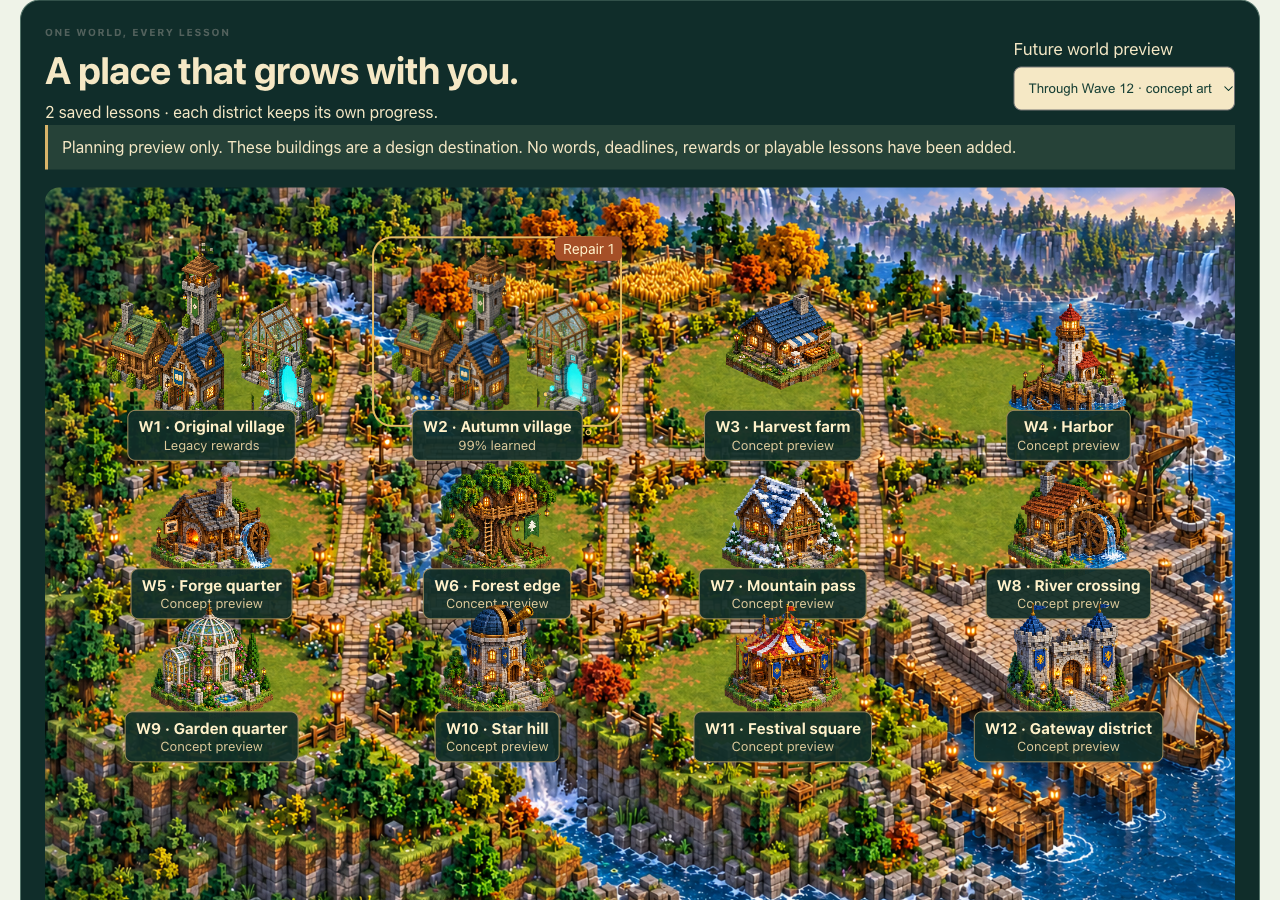
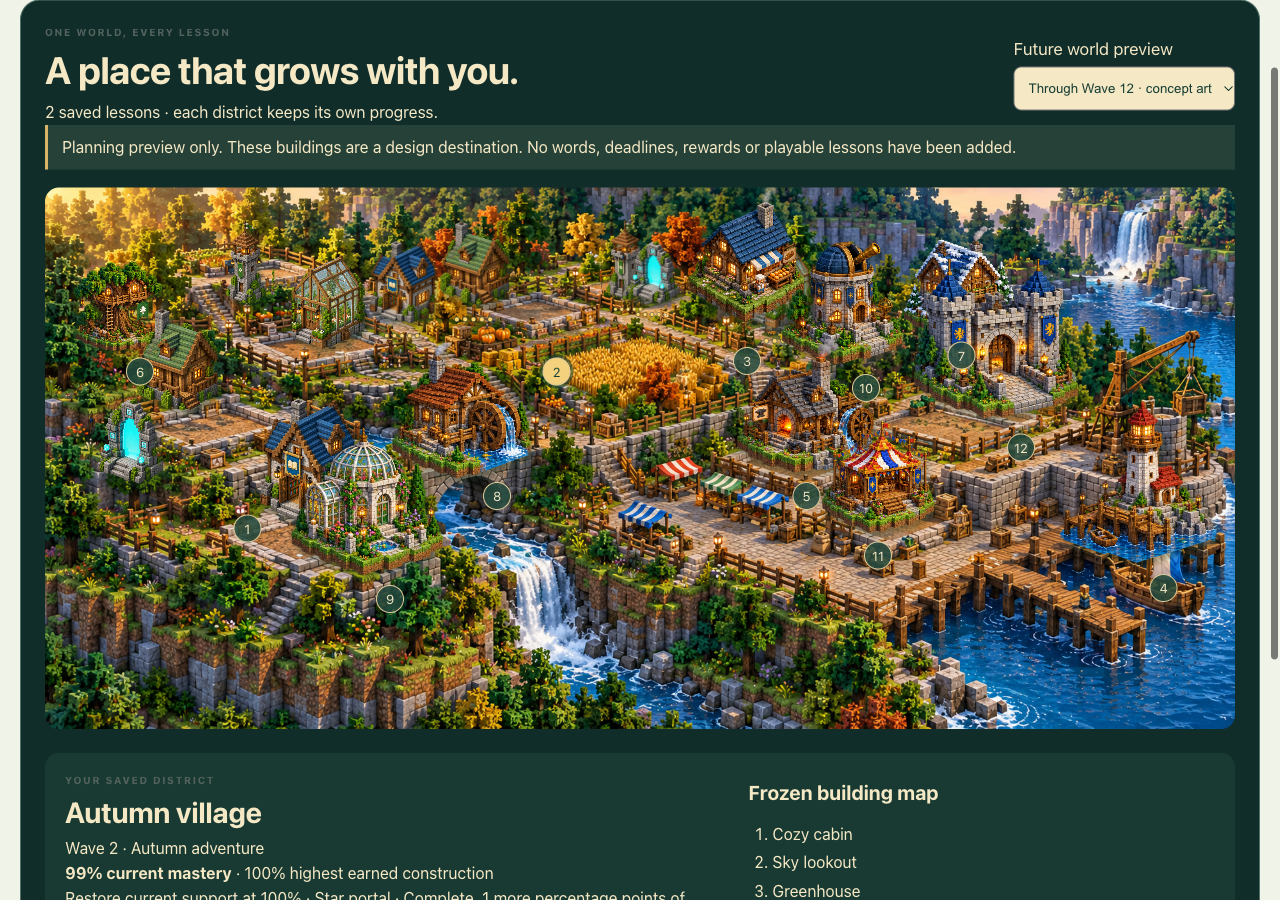
fix(village): author organic world composition and reopen visual acceptance

diff --git a/src/Settlement.jsx b/src/Settlement.jsx
@@ -4,7 +4,8 @@ import { BUILDINGS, gameStatus } from './game.js';
 import { BuildingSprite } from './Outpost.jsx';
 import VillageBuilding from './VillageBuilding.jsx';
 import ConstructionSprite, { CONSTRUCTION_STAGES } from './ConstructionSprite.jsx';
-import terrain from './assets/settlement-terrain-v2.png';
+import terrain from './assets/settlement-terrain-v3.png';
+import { WORLD_LAYOUT } from './world-layout.js';
 import landmarks from './assets/settlement-landmarks-v1.png';
 import './settlement.css';
 
@@ -14,10 +15,10 @@ export function LandmarkSprite({ index, label, className = '' }) {
     style={{backgroundImage:`url(${landmarks})`,backgroundPosition:`${index % 5 * 25}% ${Math.floor(index / 5) * 100}%`}} />;
 }
 
-function ExistingDistrict({ district }) {
+function ExistingDistrict({ district, world = false }) {
   const built = district.legacy ? district.wave.progress.game?.built || [] : BUILDINGS.map(b => b.id);
   return <span className="settlement-cluster" aria-label={district.legacy ? `${built.length} legacy rewards` : `Earned architecture at ${district.historicalPercent}%`}>
-    {built.map(id => {const i=BUILDINGS.findIndex(b=>b.id===id); return district.legacy ? <BuildingSprite key={id} id={id} className={`settlement-old-building home-slot-${i}`} /> : <VillageBuilding key={id} id={id} currentLevel={district.currentLevels[id]} historicalLevel={district.earnedLevels[id]} className={`settlement-old-building home-slot-${i}`} />;})}
+    {built.map(id => {const i=BUILDINGS.findIndex(b=>b.id===id); const anchor=world ? WORLD_LAYOUT[district.id].buildings[i] : null; const style=anchor ? {left:`${anchor.x}%`,top:`${anchor.y}%`,width:`${anchor.width}%`,height:`${anchor.width*3.85}%`,zIndex:Math.round(anchor.y)} : undefined; return district.legacy ? <BuildingSprite key={id} id={id} style={style} className={`settlement-old-building home-slot-${i}`} /> : <VillageBuilding key={id} id={id} currentLevel={district.currentLevels[id]} historicalLevel={district.earnedLevels[id]} style={style} className={`settlement-old-building home-slot-${i}`} />;})}
   </span>;
 }
 
@@ -26,11 +27,13 @@ export function DistrictFocus({ library, waveId }) {
   if (!district || district.legacy) return null;
   const status=gameStatus(district.wave.progress.game);
   const building=status.selectedBuild;
-  const position=district.design.position || {x:50,y:50};
+  const position=WORLD_LAYOUT[district.id] || {x:50,y:50};
   return <div className="district-focus" aria-label={`${district.design.name} study close-up`} data-district-id={district.id}>
     <div className="district-focus-heading"><span className="eyebrow">YOUR DISTRICT · CLOSE-UP</span><strong>{district.design.name}</strong></div>
-    <div className="district-focus-ground" style={{backgroundImage:`url(${terrain})`,backgroundPosition:`${position.x}% ${position.y}%`}}>
-      <ExistingDistrict district={district}/>
+    <div className="district-focus-ground">
+      <div className="district-focus-world" style={{transform:`translate(-${position.x}%, -${position.y}%)`}}>
+        <Scene districts={deriveSettlement(library)} selectedId={district.id} onSelect={()=>{}} previewCount={0} bakeryPreviewLevel={0} interactive={false}/>
+      </div>
     </div>
     <div className="district-focus-building">
       <VillageBuilding id={building.id} currentLevel={district.currentLevels[building.id]} historicalLevel={district.earnedLevels[building.id]}/>
@@ -39,19 +42,22 @@ export function DistrictFocus({ library, waveId }) {
   </div>;
 }
 
-function Scene({ districts, selectedId, onSelect, previewCount, bakeryPreviewLevel }) {
-  const sites=districts.filter(d=>d.design.position !== null);
-  return <div className="settlement-scroll"><div className="settlement-scene" role="group" aria-label="One connected settlement with roads, bridges and future foundation plots">
-    <img src={terrain} alt="Connected forest, autumn farm, stream bridges and harbor terrain" />
+function Scene({ districts, selectedId, onSelect, previewCount, bakeryPreviewLevel, interactive = true }) {
+  const sites=districts.filter(d=>WORLD_LAYOUT[d.id]);
+  return <div className="settlement-scroll"><div className="settlement-scene" role="group" aria-label="One connected settlement with roads, bridges and future foundation plots" data-planning-preview={previewCount>0}>
+    <img src={terrain} alt="Organic village terraces, winding streets, market stalls, fields, river bridge and harbor foundations" />
     {sites.map(d=> {
+      const layout=WORLD_LAYOUT[d.id];
       const index=d.design.waveNumber-3;
       const preview=!d.wave && index>=0 && index<previewCount;
-      return <button key={d.id} className={`settlement-site ${d.wave ? 'owned' : 'planned'} ${selectedId===d.id ? 'selected' : ''}`} style={{left:`${d.design.position.x}%`,top:`${d.design.position.y}%`}}
-        onClick={()=>onSelect(d.id)} aria-pressed={selectedId===d.id} aria-label={`${d.design.name}. ${d.wave ? d.legacy ? 'Legacy rewards' : `${d.currentPercent}% current mastery` : 'Planning preview, no lesson'}`}>
-        {d.wave ? <ExistingDistrict district={d}/> : preview ? index===0 ? <ConstructionSprite level={bakeryPreviewLevel} label="Bakery design preview"/> : <LandmarkSprite index={index} label={d.design.landmark}/> : <ConstructionSprite level={0} label={`${d.design.name} future plot`}/>}
-        <span className="settlement-site-label"><strong>{d.design.waveNumber ? `W${d.design.waveNumber} · ` : ''}{d.design.name}</strong><small>{d.wave ? d.legacy ? 'Legacy rewards' : `${d.currentPercent}% learned` : preview ? 'Concept preview' : 'Future plot'}</small></span>
-        {d.wave && !d.legacy && d.repairs.length>0 && <span className="settlement-repair" aria-label={`${d.repairs.length} repairs queued`}>Repair {d.repairs.length}</span>}
-      </button>;
+      const spriteStyle={left:`${layout.x}%`,top:`${layout.y}%`,width:`${layout.width}%`,zIndex:Math.round(layout.y)};
+      return <div key={d.id} className={`settlement-district ${d.wave ? 'owned' : 'planned'}`} data-district-id={d.id}>
+        {d.wave ? <ExistingDistrict district={d} world/> : preview ? <span className={`world-landmark ${index===0 ? 'world-bakery' : ''}`} style={spriteStyle}>{index===0 ? <ConstructionSprite level={bakeryPreviewLevel} label="Bakery design preview"/> : <LandmarkSprite index={index} label={d.design.landmark}/>}</span> : <span className="world-reserved" style={spriteStyle} aria-label={`${d.design.name}, unfinished reserved ground`}/>}
+        {interactive && <button className={`settlement-site ${d.wave ? 'owned' : 'planned'} ${selectedId===d.id ? 'selected' : ''}`} style={{left:`${layout.markerX ?? layout.x}%`,top:`${layout.markerY ?? layout.y}%`}}
+          onClick={()=>onSelect(d.id)} aria-pressed={selectedId===d.id} aria-label={`${d.design.name}. ${d.wave ? d.legacy ? 'Legacy rewards' : `${d.currentPercent}% current mastery` : 'Planning preview, no lesson'}`}>
+          <span aria-hidden="true">{d.design.waveNumber}</span>
+        </button>}
+      </div>;
     })}
   </div></div>;
 }

diff --git a/src/settlement.css b/src/settlement.css
@@ -7,15 +7,20 @@
 .world-preview-control select { background: #f5e8c5; color: #173f34; padding: 10px; border-radius: 8px; max-width: 100%; }
 .planning-notice { border-left: 3px solid #d8b469; padding: 10px 14px; background: #264238; }
 .settlement-scroll { overflow-x: auto; border-radius: 14px; margin-top: 18px; }
-.settlement-scene { position: relative; aspect-ratio: 3 / 2; min-width: 760px; isolation: isolate; }
-.settlement-scene > img { display: block; width: 100%; height: 100%; }
-.settlement-site { position: absolute; width: 21%; height: 24%; transform: translate(-50%,-66%); background: transparent; border: 0; padding: 0; color: #fff1c9; cursor: pointer; }
-.settlement-site:hover,.settlement-site:focus-visible { background: transparent; outline: 3px solid #e6bd64; border-radius: 20px; }
-.settlement-site.selected { border-radius: 20px; box-shadow: inset 0 0 0 2px #e6bd64; }
-.settlement-site-label { position: absolute; top: 91%; left: 50%; transform: translateX(-50%); width: max-content; max-width: 116%; background: #112e28ed; padding: 6px 10px; border: 1px solid #9b8859; border-radius: 8px; font-size: clamp(12px,1.2vw,17px); line-height: 1.3; }
-.settlement-site-label strong,.settlement-site-label small { display:block; }
-.settlement-site-label small { color: #ddca9a; font-size: .85em; }
-.settlement-site .construction-sprite,.settlement-site .landmark-sprite { position: absolute; bottom: 0; width: 94%; left: 3%; }
+.settlement-scene { position:relative; aspect-ratio:1860 / 846; min-width:1000px; isolation:isolate; }
+.settlement-scene > img { display:block; width:100%; height:100%; pointer-events:none; }
+.settlement-district { position:absolute; inset:0; pointer-events:none; }
+.settlement-scene .settlement-cluster { position:absolute; inset:0; }
+.settlement-scene .settlement-old-building { position:absolute; transform:translate(-50%,-100%); background-size:500% 100%; pointer-events:none; filter:drop-shadow(3px 5px 3px #18362270); }
+.world-landmark { position:absolute; display:block; transform:translate(-50%,-100%); pointer-events:none; filter:drop-shadow(3px 5px 3px #18362260); }
+.world-landmark > .landmark-sprite { width:100%; }
+.world-landmark > .construction-sprite { width:100%; }
+.world-bakery { margin-top:2%; }
+.world-reserved { position:absolute; height:2%; transform:translate(-50%,-100%); border:1px dashed #d8b46955; border-radius:50%; }
+.settlement-site { position:absolute; width:28px; height:28px; min-height:28px !important; padding:0; transform:translate(-50%,-50%); background:#244a3edb; color:#f5e8c5; border:1px solid #ddca9a; border-radius:50%; font-size:13px; line-height:1; z-index:100; pointer-events:auto; cursor:pointer; }
+.settlement-site.selected { background:#f3d17d; color:#173f34; box-shadow:0 0 0 3px #173f3490; }
+.settlement-site:hover,.settlement-site:focus-visible { outline:3px solid #ffe3a1; outline-offset:3px; }
+.settlement .settlement-site:not(:disabled):active { transform:translate(-50%,-50%); }
 .construction-sprite { display: block; aspect-ratio: 1/2; background-size: 600% 100%; background-repeat: no-repeat; }
 .landmark-sprite { display:block; aspect-ratio: 1/1; background-size: 500% 200%; background-repeat:no-repeat; }
 .settlement-site .construction-sprite { aspect-ratio: 1/2; height: 100%; width: 47%; left: 26.5%; }
@@ -46,17 +51,17 @@
 .home-slot-2 { left: 62%; top: 19%; }
 .home-slot-3 { left: 27%; top: 37%; }
 .home-slot-4 { left: 66%; top: 39%; }
-.settlement-site .landmark-sprite { width: 50%; left: 25%; }
+
 .selected-landmark { width: min(260px,100%); float: right; margin-left: 18px; }
-.settlement-site-label { z-index: 2; }
+
 @media (max-width: 760px) { .selected-landmark { float:none; margin:0 auto; } }
 .settlement-old-building.village-building { height:67%; aspect-ratio:120 / 210; }
 .settlement-cluster .village-upgrade-earned { fill:#ffd06b; stroke:#274737; }
 .settlement-cluster .village-upgrade-previous { fill:none; stroke:#ffd06b; stroke-width:2; }
 .settlement-cluster .village-upgrade-pending { fill:#3a5446; stroke:#869782; }
 .settlement-scene > img { pointer-events:none; position:relative; z-index:0; }
-.settlement-site { z-index:1; }
-.settlement .settlement-site:not(:disabled):active { transform:translate(-50%,-66%); }
+
+
 .settlement-site { transition: none; }
 .construction-stage-buttons button { background:#315848; color:#fff1c9; border:1px solid #ad9b72; border-radius:8px; font-size:18px; padding:8px 12px; }
 .settlement-inspector .primary,.imported-district button { background:#d8b469; color:#112e28; border:1px solid #d8b469; border-radius:10px; padding:10px 18px; font-size:20px; }
@@ -67,8 +72,8 @@
 .district-focus .eyebrow { color:#ddca9a; }
 .district-focus-heading strong { font-size:24px; }
 .district-focus-ground { position:relative; height:300px; overflow:hidden; border-radius:12px; background-size:340% auto; }
-.district-focus-ground .settlement-cluster { inset:20px 12px 15px; }
-.district-focus-ground .settlement-old-building { width:28%; height:67%; }
+
+
 .district-focus-building { display:flex; align-items:center; gap:20px; margin-top:15px; }
 .district-focus-building > .village-building { width:150px; min-width:120px; height:260px; }
 .district-focus-building h3 { margin:8px 0; font-size:25px; }
@@ -80,3 +85,7 @@
 @media (max-width:760px) { .map-scroll-hint { display:block; font-size:16px; } .selected-bakery { float:none; margin:0 auto; } }
 
 @media (max-width:760px) { .district-focus-ground { height:180px; } .district-focus-building > .village-building { width:110px; min-width:100px; height:185px; } }
+
+.district-focus-world { position:absolute; width:340%; left:50%; top:50%; pointer-events:none; }
+.district-focus-world .settlement-scroll { overflow:visible; margin:0; border-radius:0; }
+.district-focus-world .settlement-scene { min-width:0; }

diff --git a/composition-preview.html b/composition-preview.html
@@ -1,0 +1,6 @@
+<!doctype html><html lang="en"><meta charset="utf-8"><title>Wortwerk visual acceptance comparison</title><style>
+body{margin:0;padding:22px;background:#102d2a;color:#f5e8c5;font:16px system-ui}h1{font-size:26px}h2{font-size:20px;margin:10px 0}p{max-width:1200px;line-height:1.5}.pair{display:grid;grid-template-columns:1fr 1fr;gap:18px;margin-bottom:24px}figure{margin:0}.frame{position:relative;aspect-ratio:3;overflow:hidden;background:#193a32}.frame{aspect-ratio:2.2}.frame img{width:100%;height:100%;object-fit:contain}.reference-crop{position:absolute;width:100%;aspect-ratio:3;top:50%;transform:translateY(-50%);overflow:hidden}.reference-crop img{position:absolute;width:100%;height:auto;top:-30%}figcaption{margin:8px 0;color:#ddca9a}.status{padding:12px;border:1px solid #d8b469}
+</style><h1>Visual acceptance outstanding · one bounded composition pass</h1><p>Actual rendered synthetic fixtures, not live student data. Reference crops exclude the title and upgrade strip. Comparable wide framing shows the village region; full rendered scenes are linked below.</p>
+<section class="pair"><figure><h2>Approved village region</h2><div class="frame reference"><div class="reference-crop"><img alt="Approved organic village reference" src="/docs/evidence/growing-village/approved-concept-v1.png"></div></div><figcaption>Composition reference: inhabited streets, terraces and harbor.</figcaption></figure><figure><h2>Current-state fixture · no future rewards</h2><div class="frame"><img alt="Rendered current-state synthetic fixture with unfinished future ground" src="/docs/evidence/growing-village/composition-current.png"></div><figcaption>Wave 1 earned buildings; Wave 2 at 40%. Future ground remains unfinished.</figcaption></figure></section>
+<section class="pair"><figure><h2>Approved village region</h2><div class="frame reference"><div class="reference-crop"><img alt="Approved organic village reference" src="/docs/evidence/growing-village/approved-concept-v1.png"></div></div><figcaption>Same reference and framing.</figcaption></figure><figure><h2>Completed-future planning fixture</h2><div class="frame"><img alt="Rendered completed-future planning fixture, not playable lessons" src="/docs/evidence/growing-village/composition-planning.png"></div><figcaption>Both current districts at maximum architecture; ten future landmark designs. Planning only.</figcaption></figure></section>
+<p class="status">Review required: composition, scale, ground contact, perspective/light, variety, connected streets, district integration and unobstructed scenery. Remaining future staged building packs are unfinished. Functional tests do not grant visual approval.</p><a style="color:#f5e8c5" href="/docs/evidence/growing-village/composition-current.png">Full current scene</a> · <a style="color:#f5e8c5" href="/docs/evidence/growing-village/composition-planning.png">Full planning scene</a></html>

diff --git a/src/VillageBuilding.jsx b/src/VillageBuilding.jsx
@@ -22,13 +22,13 @@ export function villageStage(id, level) {
   return (DESIGNS[id].stages || VILLAGE_STAGES)[level];
 }
 
-export default function VillageBuilding({ id, currentLevel, historicalLevel, className = '' }) {
+export default function VillageBuilding({ id, currentLevel, historicalLevel, className = '', style }) {
   const design = DESIGNS[id];
   const appearance = UPGRADE_APPEARANCE[Math.max(currentLevel, historicalLevel)];
   const stage = villageStage(id, currentLevel);
   const historical = historicalLevel > currentLevel;
   const label = `${design.name}: level ${currentLevel} of 5, ${stage}${historical ? `; earned architecture at previous level ${historicalLevel}, current upgrades need repair` : ''}`;
-  return <svg className={`village-building ${className}`} viewBox="0 0 120 210" role="img" aria-label={label} data-building-id={id} data-level={currentLevel} data-historical-level={historicalLevel}>
+  return <svg className={`village-building ${className}`} style={style} viewBox="0 0 120 210" role="img" aria-label={label} data-building-id={id} data-level={currentLevel} data-historical-level={historicalLevel}>
     <title>{label}</title>
     <svg className="village-upgrade-art" width="120" height="200" viewBox="0 0 120 200" overflow="hidden" style={{ opacity: appearance.opacity, filter: `saturate(${appearance.saturation})` }}>
       <image href={buildings} x={-design.index * 120} y="0" width="600" height="200" preserveAspectRatio="none" />

diff --git a/src/world-layout.js b/src/world-layout.js
@@ -1,0 +1,21 @@
+// Ground anchors authored against the continuous terrain, independent of lesson state.
+export const WORLD_LAYOUT = {
+  original: { x:18,y:60,markerX:17,markerY:63,buildings:[
+    {x:11,y:44,width:7},{x:17,y:23,width:4.5},{x:24,y:32,width:6.5},
+    {x:22,y:65,width:8},{x:7,y:57,width:6.5},
+  ]},
+  autumn: { x:44,y:26,markerX:43,markerY:34,buildings:[
+    {x:36,y:25,width:6},{x:49,y:23,width:4.5},{x:62,y:29,width:6},
+    {x:30,y:28,width:5.5},{x:51,y:24,width:5},
+  ]},
+  farm: {x:59,y:29,width:10,markerY:32},
+  harbor: {x:92,y:70,width:14,markerX:94,markerY:74},
+  forge: {x:64,y:54,width:12,markerY:57},
+  forest: {x:6,y:31,width:8,markerX:8,markerY:34},
+  mountain: {x:77,y:29,width:10,markerY:31},
+  river: {x:35,y:55,width:12,markerX:38,markerY:57},
+  garden: {x:27,y:73,width:13,markerX:29,markerY:76},
+  observatory: {x:67,y:34,width:11,markerX:69,markerY:37},
+  festival: {x:70,y:65,width:10,markerX:70,markerY:68},
+  gateway: {x:80,y:44,width:14,markerX:82,markerY:48},
+};

diff --git a/src/Outpost.jsx b/src/Outpost.jsx
@@ -6,7 +6,7 @@ import buildings from "./assets/outpost-buildings.png";
 import VillageBuilding, { villageStage } from './VillageBuilding.jsx';
 import "./outpost.css";
 
-export function BuildingSprite({ id, className = "" }) {
+export function BuildingSprite({ id, className = "", style }) {
   const index = BUILDINGS.findIndex((b) => b.id === id);
   return (
     <span
@@ -15,6 +15,7 @@ export function BuildingSprite({ id, className = "" }) {
       style={{
         backgroundImage: `url(${buildings})`,
         backgroundPosition: `${index * 25}% center`,
+        ...style,
       }}
     />
   );

diff --git a/scripts/run-settlement-browser-check.py b/scripts/run-settlement-browser-check.py
@@ -17,5 +17,13 @@ if result.returncode:
 receipt=json.loads(result.stdout.split("### Result\n")[1].split("\n")[0])
 (root / "docs/evidence/growing-village/browser-result.json").write_text(json.dumps(receipt, indent=2)+"\n")
 
-for name in ['study-closeup-4.png', 'study-closeup-40.png', 'study-closeup-100.png', 'study-closeup-correction.png', 'study-layout-1280.png', 'study-layout-1024.png', 'study-layout-390.png', 'bakery-100.png', 'bakery-4.png', 'bakery-40.png', 'bakery-stages.png', 'connected-complete-future.png', 'connected-current-100.png', 'connected-current-4.png', 'connected-current-40.png', 'exact-correction-resume.png', 'historical-repair.png', 'responsive-1024.png', 'responsive-1280.png', 'responsive-390.png']:
+for name in ['composition-current.png', 'composition-planning.png', 'study-closeup-4.png', 'study-closeup-40.png', 'study-closeup-100.png', 'study-closeup-correction.png', 'study-layout-1280.png', 'study-layout-1024.png', 'study-layout-390.png', 'bakery-100.png', 'bakery-4.png', 'bakery-40.png', 'bakery-stages.png', 'connected-complete-future.png', 'connected-current-100.png', 'connected-current-4.png', 'connected-current-40.png', 'exact-correction-resume.png', 'historical-repair.png', 'responsive-1024.png', 'responsive-1280.png', 'responsive-390.png']:
     shutil.copy2(root / "output/playwright/settlement" / name, root / "docs/evidence/growing-village" / name)
+
+comparison_code = "async (page) => { await page.setViewportSize({width:1440,height:950}); await page.goto('http://127.0.0.1:4197/composition-preview.html'); await page.locator('img').evaluateAll(images=>Promise.all(images.map(image=>image.decode()))); await page.screenshot({path:'docs/evidence/growing-village/composition-comparison.png',fullPage:true}); return {comparison:'current and future planning beside cropped approved reference',visualAcceptance:'outstanding'}; }"
+comparison = subprocess.run(['/Users/aliegm/.codex/skills/playwright/scripts/playwright_cli.sh', '-s=wortwerk-expansion', 'run-code', comparison_code], cwd=root, env=env, check=False, capture_output=True, text=True)
+if comparison.returncode:
+    print(comparison.stdout)
+    print(comparison.stderr)
+    raise SystemExit(comparison.returncode)
+print('Saved composition-comparison.png; visual acceptance outstanding.')

diff --git a/docs/growing-village-delivery.md b/docs/growing-village-delivery.md
@@ -13,7 +13,7 @@ Authoritative checkout is clean at ad58e30a3b413205a6132eede71a264656400da8. PR 
 - [x] Phase B: Design the workflow.
 - [x] Phase C: Run the loop.
 - [x] Phase D: Keep the audit trail.
-- [x] Phase E: Verify and hand back.
+- [ ] Phase E: Visual acceptance remains outstanding; functional verification is recorded separately.
 
 The definition of done is a rendered connected settlement, genuine five-stage bakery art, ten future district previews, learning-derived current milestones, intact historical architecture and exact old-session resume. Future previews cannot create lessons. Wave 1 artwork and Wave 2 atlas remain accepted assets. Tests, inspected laptop screenshots and a reviewable dependent PR are required.
 
@@ -54,7 +54,7 @@ Start the Playwright CLI session wortwerk-expansion against that local origin, u
 
 ## Release handoff
 
-This branch is deployment-ready for the local tested scope, not a live release. PR 4 remains its dependency. Review and land PR 4 before retargeting the expansion PR to main. No old branch was reset.
+This branch is not ready for visual acceptance or live release; composition review remains outstanding. PR 4 remains its dependency. Review and land PR 4 before retargeting the expansion PR to main. No old branch was reset.
 
 For any later release, require a fresh pause/sync/closed-tabs confirmation. Revalidate current save read-only, build an immutable candidate image, retain the current rollback image and exact release override, stop the existing Compose service, back up the current named volume, and replace only the image while preserving wortwerk_wortwerk-data. Compare the complete persisted saved record and both waves/session/history/evidence before and after. Verify authenticated progress/page/new bundle, HTTPS health and container health. Do not migrate, reset, replace the volume or restore an old backup automatically.
 
@@ -77,3 +77,13 @@ Automatic approval review rejected the requested Notion and Linear posts as sens
 Study now shows the selected Autumn district on a crop of the continuous world terrain, large current-building artwork, current upgrade and next mastery threshold. It uses the live selected-wave state, not a copied saved snapshot. Existing Autumn sprites honestly remain learning upgrades; structural foundation/frame artwork remains in the future bakery preview. Wave 1 study artwork is unchanged.
 
 Actual browser screenshots: study-closeup-4.png, study-closeup-40.png, study-closeup-100.png; study-layout-1280.png, study-layout-1024.png and study-layout-390.png; connected-complete-future.png for the whole landscape. These files are in docs/evidence/growing-village. Browser assertions cover all seven checkpoints and exact unfinished correction round-trip. Ten future landmarks differ; the two current districts retain their accepted shared atlas. Future places remain nonplayable plans.
+
+## October 5 · Visual acceptance reopened
+
+The whole-world screenshot was rejected against the approved composition. Prior functional pass and ready-locally wording do not constitute visual acceptance. Expansion is in progress: visual acceptance outstanding. One bounded composition correction will replace the selector-grid layout and label cards, integrate existing art with authored terrain anchors, and provide a framed reference comparison. Preserve study close-up, accepted Wave 1 art and all saved learning contracts. No live deployment. Notion/Linear posts remain blocked pending direct approval of the sanitized payload and exact destinations in docs/growing-village-management-update.md.
+
+## Bounded composition pass evidence
+
+One approved-reference terrain edit; no broad new asset generation. Authored irregular anchors, different current district arrangements, small accessible map markers and actual-world study crop replace the selector-grid composition. Current fixture and completed-future planning fixture are shown beside the title/upgrade-strip-free reference in docs/evidence/growing-village/composition-comparison.png. Detailed assessment is docs/growing-village-visual-review.md.
+
+Visual acceptance remains outstanding: future sprite base/camera/light seams and full district supporting assets are not solved by this bounded pass. The independent review found substantial terrain/label improvement but rejected initial grounding. Upper/market anchors and current wheat overlap were corrected afterward; no approval is inferred. 188 tests, production/offline build and final Chrome milestone/history/resume/layout checks pass. No live deployment. Sanitized management text records in-progress status and was not posted.

diff --git a/docs/growing-village-visual-review.md b/docs/growing-village-visual-review.md
@@ -1,0 +1,22 @@
+# Bounded composition review · October 5
+
+Status: **visual acceptance outstanding**. The user rejected the previous selector-grid composition. This pass improves composition but does not establish fidelity approval.
+
+See composition-preview.html and docs/evidence/growing-village/composition-comparison.png for the approved village region beside two actual browser screenshots. Reference title/upgrade strip are excluded; complete rendered scenes are preserved, with framing gaps visible rather than hidden by cropping roofs. Current fixture has earned Wave 1 buildings, Wave 2 at 40%, and no future earned buildings. Completed-future planning fixture reveals ten destination landmarks with both current districts at maximum architecture; it is not a playable future curriculum or a completed set of district stage assets.
+
+| Criterion | Assessment after bounded pass |
+| --- | --- |
+| Composition | Improved: organic lanes, varied terraces and a shared market/harbor replace the equal 4-by-3 selector grid. Still more small structures than the reference's dominant substantial building groups. |
+| Scale | Authored depth-sensitive sizes and distinct current layouts improve the village reading. Some accepted narrow current sprites remain visibly different in scale from broad future atlas buildings. |
+| Ground contact | Current sprites moved onto prepared clearings; upper silhouettes reduced and moved away from the map edge. Future watermill/lighthouse and some market landmark base tiles still meet terrain awkwardly. Not accepted. |
+| Perspective and light | Terrain uses the approved reference's warm light and voxel camera. Reused sprite platforms retain independent lighting/edge geometry. Seams remain, so matching palette is not enough. |
+| Variety | Ten different future landmarks remain, with different current building arrangements. Wave 1/2 still reuse the accepted five building types; the world no longer copies an identical cluster twice. Future plans remain one landmark each, not complete five-building district packs. |
+| Connected streets | Improved: winding lanes, stairs, river bridge, markets and dock approaches form one context. Some sprite bases still interrupt street edges. |
+| Integrated districts | Partial: sites follow authored ground anchors and the study view crops this same actual world renderer. Future supporting architecture/staged packs remain unfinished. |
+| Unobstructed scenery | Large label cards removed; small numbered accessible markers open the separate inspector. Streets and gardens remain visible. |
+
+Independent review rejected the initial corrected planning render for grounding and atlas seams. This pass then moved/scaled upper and market sprites, moved Autumn architecture off wheat, and changed the study view from an unrelated terrain-v2 backdrop to a crop of the actual renderer. The remaining grounding/perspective limitations above still prevent a visual-complete claim. No broad new landmark/stage generation followed: exactly one approved-reference terrain edit was used.
+
+Functional evidence: 188 tests pass; production/offline build passes; real Chrome checks retain seven study/world levels, historical architecture, responsive bounds and exact old/new unfinished-session resume. No live student state, server container or deployment was accessed. Management payload is sanitized and pending direct approval; no rejected external post was retried.
+
+Final independent read-only review confirms that the comparison exposes the remaining differences honestly, readiness claims are corrected, the study crop uses the actual Scene and reviewed changes do not write learning state. Its verdict is suitable for user review, not visual acceptance or deployment.

diff --git a/docs/growing-village-management-update.md b/docs/growing-village-management-update.md
@@ -1,16 +1,13 @@
 # Pending management update
 
-Status: not posted. Automatic approval review requires explicit approval of this payload and its destinations.
+Status: not posted. Visual acceptance is outstanding. Automatic approval review requires direct user approval of this sanitized payload and both exact destinations before posting. Do not retry the rejected posts without that approval.
 
-Destinations: existing Notion hub page `3e7f3f68-8878-8136-882c-c335e5f0ed66` and existing Linear issue `EZU-57` (WW-09).
+Destinations: existing Notion hub https://app.notion.com/p/3e7f3f6888788136882cc335e5f0ed66 and existing Linear issue EZU-57 (WW-09) in https://linear.app/ezumyn/project/wortwerk-b26d30da83ed.
 
 ## Exact proposed text
 
-October 5 growing-village expansion is ready locally in [PR 5](https://github.com/ezumyn-aliegm/wortwerk/pull/5), on feat/growing-village-milestones from approved ad58e30. PR 4 remains open; PR 5 targets fix/study-controls-construction and must follow that dependency.
+October 5: Wortwerk growing-village expansion is in progress in PR 5: https://github.com/ezumyn-aliegm/wortwerk/pull/5. Visual acceptance is outstanding. The whole-village composition was rejected because it resembled a selector grid with duplicated current clusters and detached landmarks. A bounded composition correction and direct approved-reference comparison are underway. Do not mark the visual milestone complete or the expansion ready for release.
 
-Delivery milestones completed: ten-wave Waves 3–12 layout/catalog and distinct landmark previews; genuine foundation/frame/walls/roof/inhabited bakery sheet; connected-world integration derived from per-wave learning evidence; mixed-history, repair and exact saved-session validation. Current Wave 1 artwork and Wave 2 atlas remain. Historical earned architecture stays standing while current mastery and repairs remain truthful. No new authoritative learning state or global denominator.
+The existing district study close-up, genuine bakery stage artwork, per-wave evidence derivation and exact session-resume implementation remain. Previously, 188 tests and the production/offline build passed; those results prove their exercised functional contracts, not visual fidelity. Current and completed-future planning fixtures must be reviewed separately.
 
-All 188 tests and production/offline build pass. Real Chrome fixtures cover 0/4/20/40/60/80/100 stages, connected/full/compact views, laptop widths and contained mobile scroll, read-only future previews, preserved historical architecture and exact correction plus older unfinished-session navigation. Independent final local review found no remaining code blocker. Evidence and rerun script are linked from [delivery record](https://github.com/ezumyn-aliegm/wortwerk/blob/feat/growing-village-milestones/docs/growing-village-delivery.md).
-
-Future districts remain planning-only. No teacher words/tests/deadlines were invented or playable empty assignments added. Remaining staged packs and teacher material are activation prerequisites. No deployment or live-data access. Safari/live persistence/student enjoyment remain unverified. A later release needs a fresh pause/sync/closed-tabs window, current backup, rollback image, active-volume preservation and exact saved-state checks.
-
+Future Waves 3–12 remain planning-only without invented curriculum or deadlines. No deployment or live-data access occurred. A later release still needs a fresh pause/sync/closed-tabs confirmation and preservation checks. Safari and live persistence remain unverified. External records have not been updated.

diff --git a/PROJECT-STATUS.md b/PROJECT-STATUS.md
@@ -1,6 +1,6 @@
 # Wortwerk project status
 
-October 5 growing village ready locally on feat/growing-village-milestones, based on approved ad58e30. One textured connected landscape, ten Waves 3–12 planning districts with distinct landmark previews, a genuine five-stage bakery and read-only per-wave construction view are implemented. Existing Wave 1 artwork and Wave 2 atlas remain. Historical construction stays standing after mistakes; current mastery and repairs remain separate. Future previews add no assignments, vocabulary or deadlines. Browser evidence covers stage fixtures, responsive layouts, unchanged synthetic library and exact unfinished correction navigation. Tests and publication evidence are recorded in docs/growing-village-delivery.md. PR 4 remains the dependency. Live release is unchanged; no deployment authorized.
+October 5 growing-village expansion remains in progress on PR 5. Visual acceptance is outstanding after rejection of the selector-grid composition. One bounded correction uses an organic continuous terrain, authored ground anchors and small markers. Current and future-planning reference comparisons are required; functional tests do not establish fidelity. Study close-up and saved learning contracts are preserved. Future districts remain nonplayable. No live deployment; external management updates remain pending direct payload/destination approval.
 
 October 4 live release verified after the family confirmed everyone paused, synced and tabs closed. Runtime source 12d1e69, image wortwerk:study-20261004-12d1e69. German character keys, complete noun prompts, passenger readability and corrected Wave 2 block-art graphics are live. Wave 1 artwork is unchanged. Authenticated progress/page/new bundle and HTTPS health checks pass. Stopped-service backup and exact whole-file comparison preserve both waves, saved session/draft, history/evidence and revision 2960 byte-for-byte. No migration or reset. Previous grading image and rollback override retained. The connected settlement expansion plan remains proposed, not implemented. Earlier pending-deployment notes below are historical.
 
@@ -56,3 +56,7 @@ October 1 release: packaging fix `adb9115` adds the scoring module to the contai
 5. Preserve saved sessions through updates. Require a current safe pause/sync/closed-tab window before container replacement and retain a backup/rollback image. Old reset permission is not reusable.
 6. Keep credentials, private environment files, backups and student records out of Git, Linear and Notion.
 7. Update these records during project work. No unattended maintenance or automatic cross-tool synchronization is configured.
+
+## October 5 · Visual acceptance reopened
+
+The whole-world screenshot was rejected against the approved composition. Prior functional pass and ready-locally wording do not constitute visual acceptance. Expansion is in progress: visual acceptance outstanding. One bounded composition correction will replace the selector-grid layout and label cards, integrate existing art with authored terrain anchors, and provide a framed reference comparison. Preserve study close-up, accepted Wave 1 art and all saved learning contracts. No live deployment. Notion/Linear posts remain blocked pending direct approval of the sanitized payload and exact destinations in docs/growing-village-management-update.md.

diff --git a/docs/task-ledger.md b/docs/task-ledger.md
@@ -100,3 +100,13 @@ Automatic approval review rejected the requested Notion and Linear posts as sens
 Inherited clean 92fcc5c on the existing expansion branch; no restart or live access. Added a Wave 2 study close-up using the same continuous landscape as exploration, large accepted current-building art and explicit current upgrade/next mastery threshold. Wave 1 keeps its accepted study HUD. The whole world remains a single landscape with roads, bridges, forest, fields and harbor, plus ten different future landmark sprites; no repeated district backdrop tiles. Earlier earned structures remain derived from historical evidence.
 
 188 tests pass and production/offline build passes. Expanded real Chrome verification proves matching study/world levels at 0/4/20/40/60/80/100, correction layouts at 1280/1024/390, no page overflow, and exact old/new unfinished session navigation. Screenshots for both views are saved under docs/evidence/growing-village. No deployment, learning-engine, curriculum or save-format changes. Existing management updates remain pending approval after automatic review rejection.
+
+## October 5 · Visual acceptance reopened
+
+The whole-world screenshot was rejected against the approved composition. Prior functional pass and ready-locally wording do not constitute visual acceptance. Expansion is in progress: visual acceptance outstanding. One bounded composition correction will replace the selector-grid layout and label cards, integrate existing art with authored terrain anchors, and provide a framed reference comparison. Preserve study close-up, accepted Wave 1 art and all saved learning contracts. No live deployment. Notion/Linear posts remain blocked pending direct approval of the sanitized payload and exact destinations in docs/growing-village-management-update.md.
+
+## Bounded composition pass evidence
+
+One approved-reference terrain edit; no broad new asset generation. Authored irregular anchors, different current district arrangements, small accessible map markers and actual-world study crop replace the selector-grid composition. Current fixture and completed-future planning fixture are shown beside the title/upgrade-strip-free reference in docs/evidence/growing-village/composition-comparison.png. Detailed assessment is docs/growing-village-visual-review.md.
+
+Visual acceptance remains outstanding: future sprite base/camera/light seams and full district supporting assets are not solved by this bounded pass. The independent review found substantial terrain/label improvement but rejected initial grounding. Upper/market anchors and current wheat overlap were corrected afterward; no approval is inferred. 188 tests, production/offline build and final Chrome milestone/history/resume/layout checks pass. No live deployment. Sanitized management text records in-progress status and was not posted.
